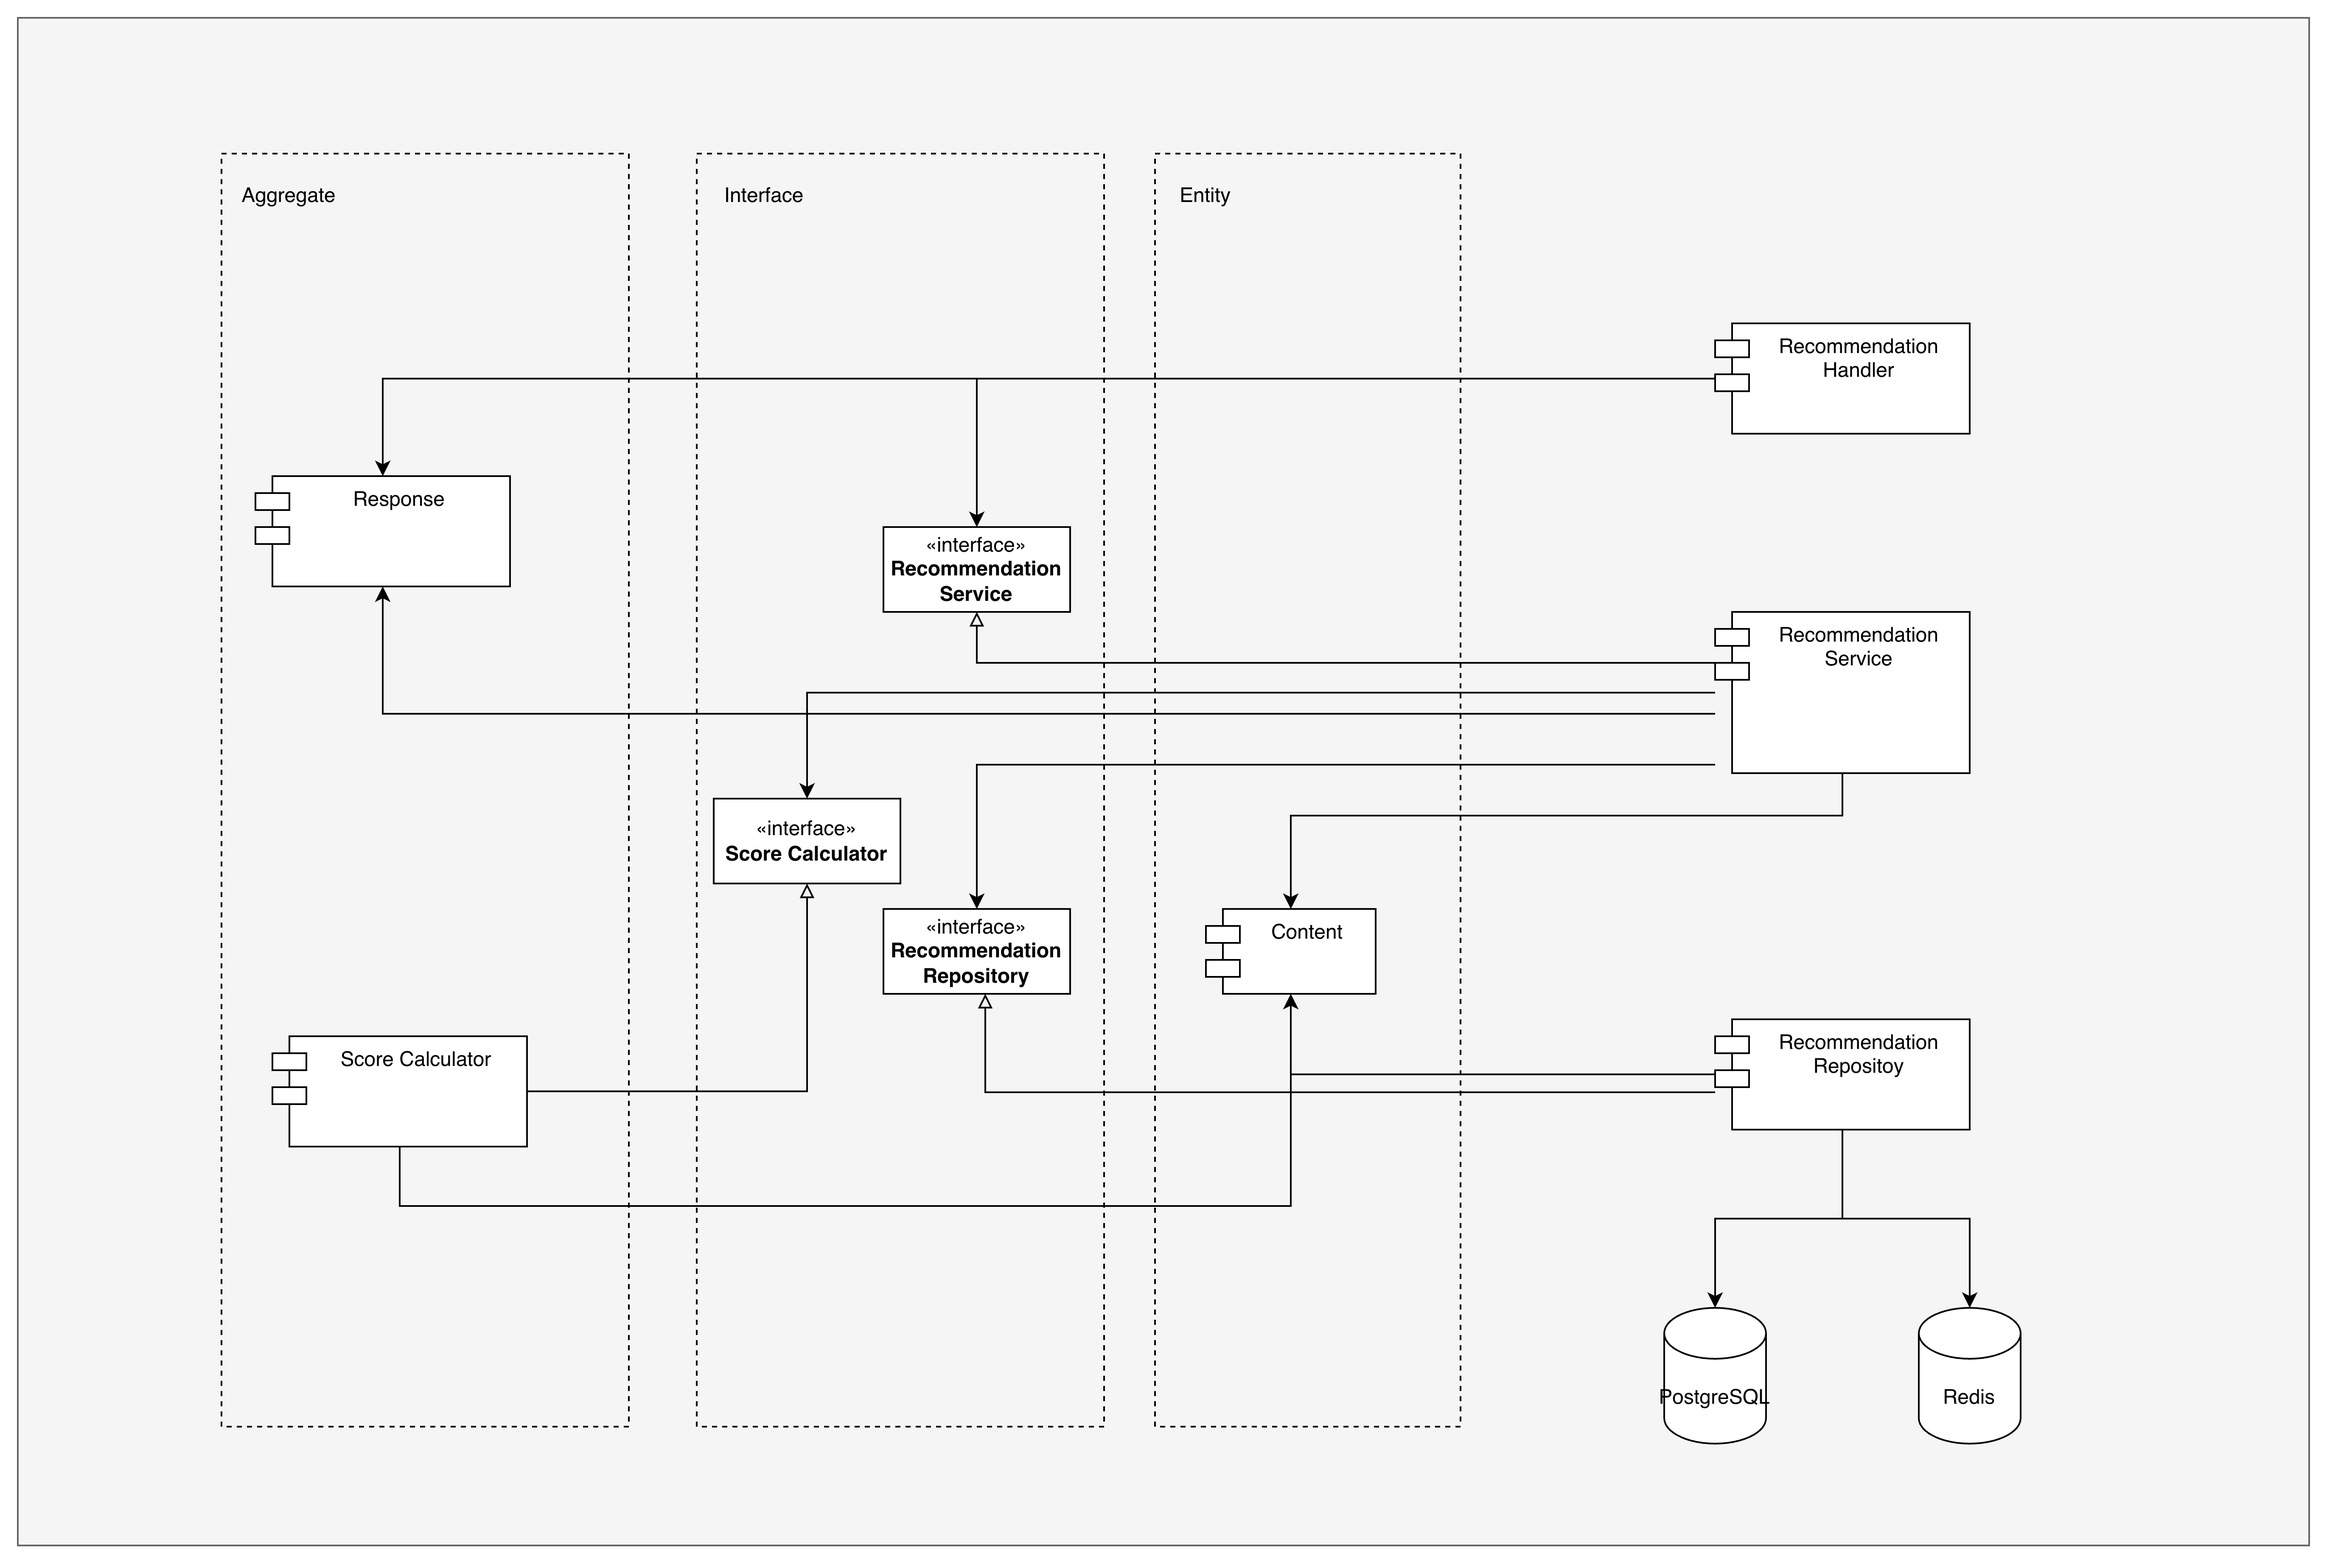
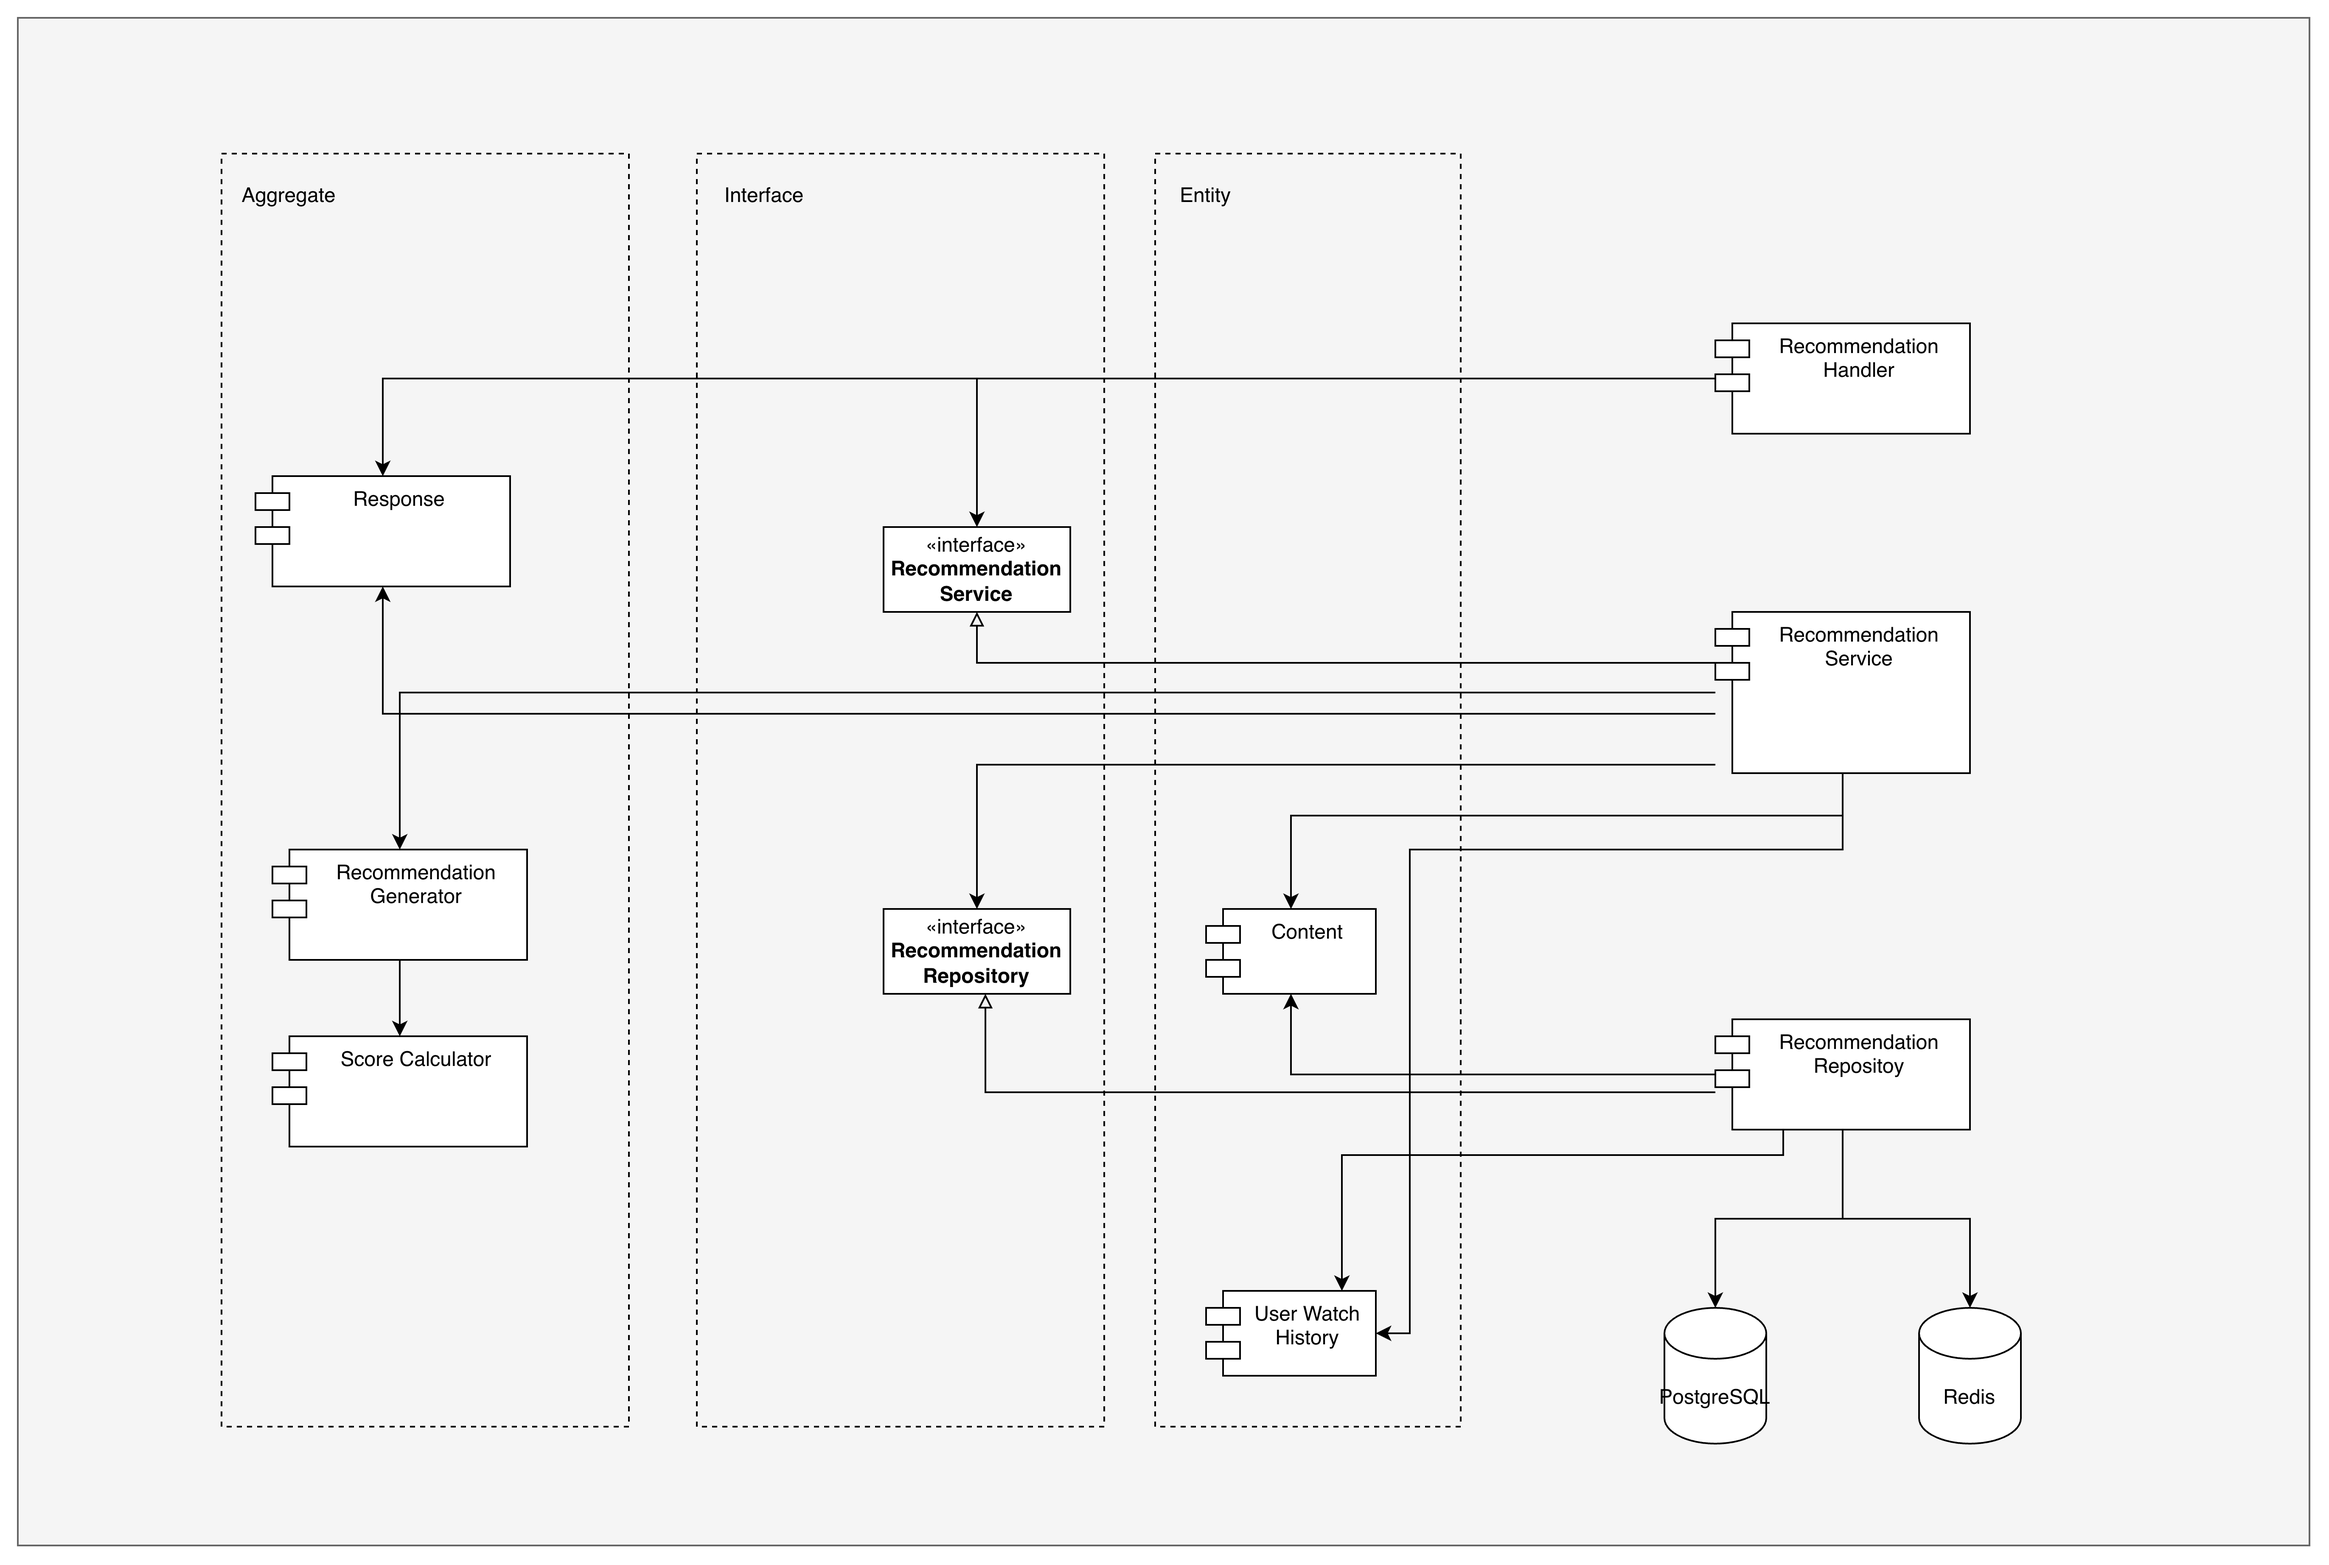
feat: update documentation

diff --git a/k6/user_recommendation.js b/k6/user_recommendation.js
@@ -1,0 +1,21 @@
+import http from 'k6/http';
+import { check, sleep } from 'k6';
+export let options = {
+  stages: [
+    { duration: '1m', target: 100 },
+  ],
+  thresholds: {
+    http_req_duration: ['p(95)<500'],
+    http_req_failed: ['rate<0.01'],
+  },
+};
+export default function () {
+  const userId = Math.floor(Math.random() * 20) + 1;
+  const res = http.get(
+    `http://localhost:8080/users/${userId}/recommendations?limit=10`
+  );
+  check(res, {
+    'status is 200': (r) => r.status === 200,
+    'has recommendations': (r) => JSON.parse(r.body).recommendations.length > 0,
+  });
+}

diff --git a/README.md b/README.md
@@ -4,10 +4,21 @@
 ### How to run Seeding
 
 1. install go
-2. run command 
+2. Run DB with command `docket compose up postgres --build` 
+3. run command 
 ```
 DATABASE_URL="host=localhost user=user password=password dbname=recommendations port=5432" go run ./migration/seeding/main.go ./migration/seeding/users.go ./migration/seeding/contents.go ./migration/seeding/user_watch_history.go
 ```
+
+### How to run application
+
+1. cd to root folder
+2. run command docker compose up --build (if don't have docker, install docker first)
+
+## How to run k6 test
+
+1. install k6
+2. run command `k6 run ${file}` for example `k6 run ./k6/user_recommendation.js`
 
 
 ## Architecture Overview
@@ -24,6 +35,14 @@ This diagram indicate high level diagram of system
     - **Entity**: Simple data structure or struct which independent from each other.
     - **Aggregate**: Gathered entity for some use case or class of business logic.
 - **Utils**: Anything that is not relate to business, just help in application implement as helper.
+
+### Dependency
+![Component Dependency Diagram](./documentation/diagrams/component_dependency.png)
+
+This diagram explain about how component depend on each others. blank head arrow mean implement to that interface. filled head arrow mean refer to it.
+- First in orchestrator they are provide the interfaces of testability (mocking ability). So, handler struct will receive interface of service instead of it exact object.
+- In service, it prefer to aggregate which is Recommendation Generator to use it generate recommendation results. I move it out of service because I want to set to boundary of modules.
+- Some aggregates and entities are refer to be just the struct like Content, User Watch History, Response
 
 ### Folder Structure
 ```
@@ -47,9 +66,26 @@ src
 - internal: orchestrator and business logic
 - utils: helper
 
+### How to get the recommendation
+![recommendation flow](./documentation/diagrams/recommendation.png)
+
+this diagram indicate about overview flow how to get the recommendation
+- First, handler will validate the params if it is invalid it will return status 400 to user which means request is rejected.
+- Next, in the service layer, we are going to check if it has cache is system, if has, return the cache response.
+- If doesn't have a caches data, we will calculate the recommendation. First check if user is exist, if not return 500 with reason no user exist. Next, gathering essential data such as unseen contents, watch histories from DB for prepare to calculate score.
+- Then pass the data the we gathered to modal  layer to calculate score and generate response struct. 
+- After having the result. set it in redis to cache data. then return response to handler then client. 
 
 ## Design Decision
 
+### Concurrency Approach
+- I used wait group and channel to prevent the deadlock as see in `src/internal/model/aggregation/recommendation_generator.go`
+
 ## Performance Results
 
+
 ## Trade-offs and Future Improvements 
+- Trade off the documentation, Load test is not finished due the timeline scope. Will discuss with team and do it late. Load test will need help from professional with QA team.
+- Need to improve next
+    - unit test
+    - use cache in batch recommendation to increase speed
